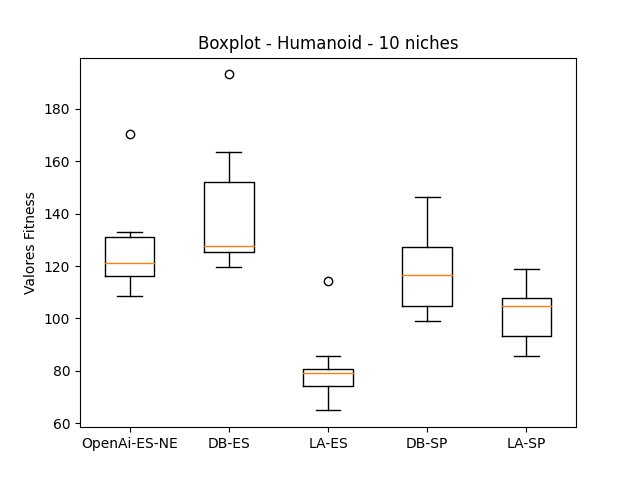
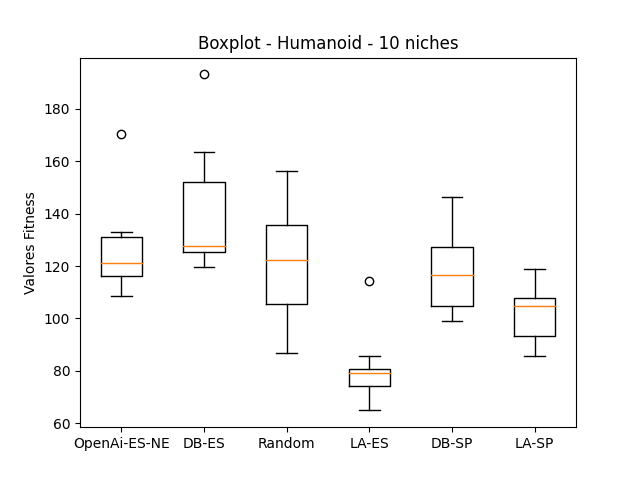
random humanoid results

diff --git a/results/humanoid/10_50/boxsplot.py b/results/humanoid/10_50/boxsplot.py
@@ -2,17 +2,18 @@ import matplotlib.pyplot as plt
 
 brenda = [116.69, 113.75, 116.18, 132.42, 132.85, 124.11, 108.69, 118.28, 127.42, 170.18]
 davi = [123.39, 193.10, 125.09, 163.31, 146.97, 125.62, 126.27, 129.18, 119.51, 153.67]
+random_davi = [156.16, 132.53, 91.16, 141.83, 123.32, 86.93, 105.01, 106.63, 121.11, 136.59]
 larissa = [65.95, 64.92, 73.95, 80.90, 78.50, 114.25, 74.55, 79.96, 85.58, 79.67]
 super_davi = [99.18, 114.86, 118.14, 98.91, 146.47, 124.34, 129.81, 128.04, 107.57, 103.63]
 super_larissa = [115.23, 108.48, 118.78, 105.96, 89.56, 92.35, 105.24, 85.52, 104.39, 96.71]
 
 
-data = [brenda, davi, larissa, super_davi, super_larissa]
+data = [brenda, davi,random_davi, larissa, super_davi, super_larissa]
 
 fig, ax = plt.subplots()
 ax.boxplot(data)
 
-ax.set_xticklabels(['OpenAi-ES-NE', 'DB-ES', 'LA-ES', 'DB-SP', 'LA-SP'])
+ax.set_xticklabels(['OpenAi-ES-NE', 'DB-ES','Random', 'LA-ES', 'DB-SP', 'LA-SP'])
 ax.set_ylabel('Valores Fitness')
 
 plt.title('Boxplot - Humanoid - 10 niches')
